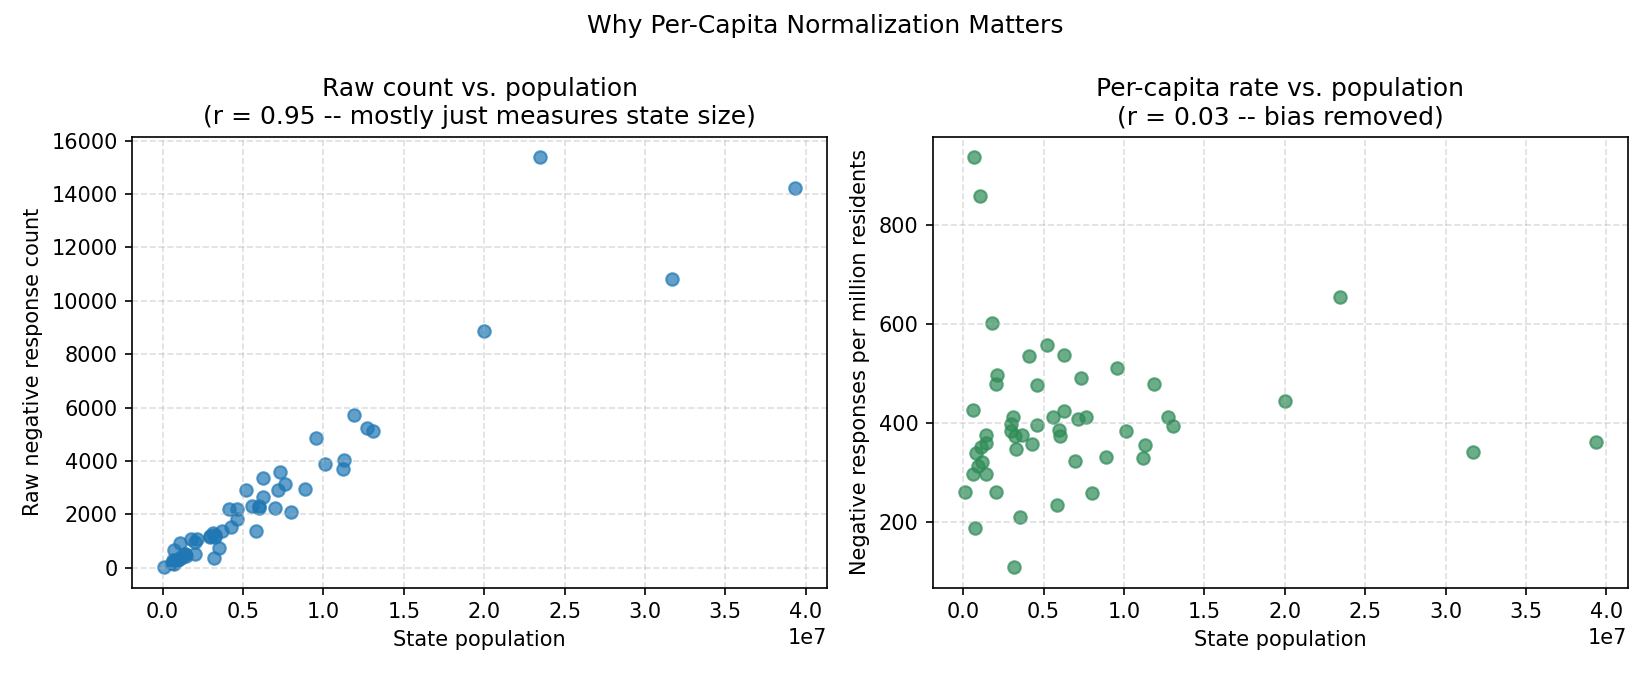
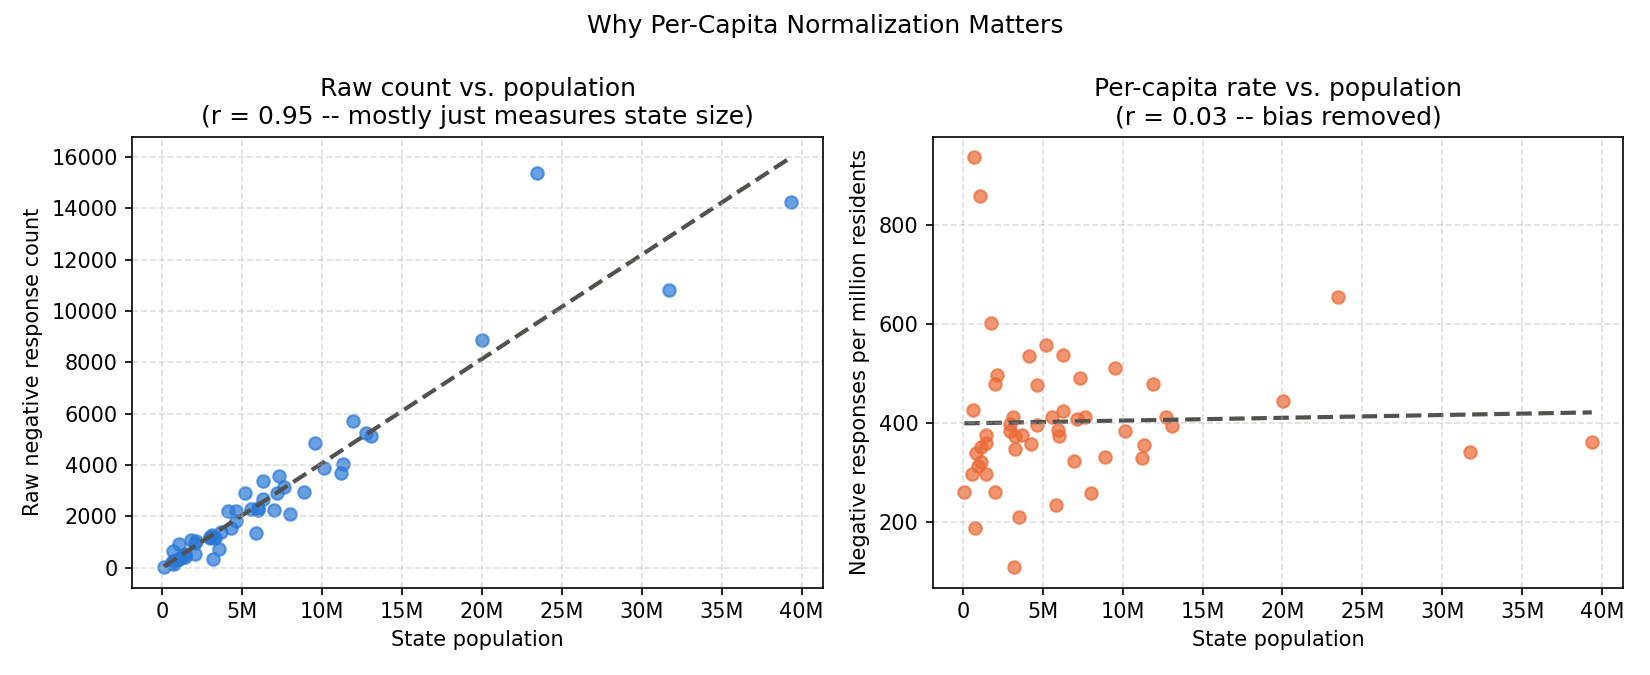
Drop disconnected NLP component, fix chart accessibility and clarity
- Remove nlp_sentiment_analysis.py and exampledataset2.csv: the classifier
  ran on a small synthetic dataset unrelated to the real HCAHPS data (which
  has no free-text field), and only added confusion about what the project
  actually demonstrates. Retitled the project and README to drop "NLP"
  since the remaining pipeline does categorical dictionary-based labeling,
  not natural language processing.
- Drop scikit-learn/numpy from requirements.txt now that nothing imports them
- Replace the diverging red/yellow/green colormap on both ranked bar charts
  with a sequential blue scale: the data is a straight ranking with no
  meaningful midpoint, so a diverging map was both semantically wrong and
  unreadable for red-green color blindness
- Add linear trend lines to both scatter plots so the stated correlations
  are visible in the chart, not just asserted in the title
- Format population axis ticks as "5M/10M" instead of scientific notation

diff --git a/hcahps_visualization.py b/hcahps_visualization.py
@@ -6,10 +6,29 @@ to the visuals/ folder. Run hcahps_sentiment_analysis.py first to (re)generate t
 import os
 
 import matplotlib.pyplot as plt
+import numpy as np
 import pandas as pd
+from matplotlib.colors import LinearSegmentedColormap
+from matplotlib.ticker import FuncFormatter
 
 OUTPUT_DIR = 'visuals'
 os.makedirs(OUTPUT_DIR, exist_ok=True)
+
+# Sequential, colorblind-safe blue ramp (light -> dark = low -> high magnitude).
+# A single-hue sequential ramp is the correct encoding for ranked/ordered data
+# like these negative-rate rankings; a red/green diverging map implies a
+# meaningful "good vs. bad" midpoint that isn't there, and red/green is the
+# one pairing that collapses for the most common form of color blindness.
+SEQUENTIAL_BLUE = LinearSegmentedColormap.from_list(
+    'sequential_blue', ['#cde2fb', '#6da7ec', '#2a78d6', '#104281']
+)
+
+# Validated categorical hues, used in fixed order across the report so the same
+# color always means the same thing (never reused for "just another series").
+BLUE = '#2a78d6'
+ORANGE = '#eb6834'
+AQUA = '#1baf7a'
+TREND_LINE = '#52514e'  # muted ink, not a data color -- reads as annotation, not a series
 
 # Human-readable labels for each HCAHPS measure_group code
 MEASURE_GROUP_LABELS = {
@@ -34,14 +53,25 @@ MEASURE_GROUP_LABELS = {
 }
 
 
+def _millions_formatter(value, _pos):
+    return f'{value / 1_000_000:.0f}M' if value else '0'
+
+
+def _add_trend_line(ax, x, y):
+    """Overlay a linear fit so the correlation stated in the title is visible, not just asserted."""
+    coeffs = np.polyfit(x, y, 1)
+    x_line = np.linspace(x.min(), x.max(), 100)
+    ax.plot(x_line, np.polyval(coeffs, x_line), color=TREND_LINE, linewidth=2, linestyle='--', zorder=1)
+
+
 def plot_state_negative_rate(summary):
     data = summary.sort_values('recommend_negative_rate_pct', ascending=True)
     fig_height = max(6, 0.22 * len(data))
     fig, ax = plt.subplots(figsize=(9, fig_height))
 
-    colors = plt.cm.RdYlGn_r((data['recommend_negative_rate_pct'] - data['recommend_negative_rate_pct'].min())
-                              / (data['recommend_negative_rate_pct'].max() - data['recommend_negative_rate_pct'].min()))
-    ax.barh(data['State'], data['recommend_negative_rate_pct'], color=colors)
+    rate = data['recommend_negative_rate_pct']
+    colors = SEQUENTIAL_BLUE((rate - rate.min()) / (rate.max() - rate.min()))
+    ax.barh(data['State'], rate, color=colors)
     ax.set_xlabel('% of patients who would NOT recommend the hospital')
     ax.set_title('"Would Not Recommend" Rate by State/Territory\n(single comparable HCAHPS measure, no cross-question blending)')
     ax.grid(axis='x', linestyle='--', alpha=0.4)
@@ -61,9 +91,9 @@ def plot_national_rate_by_measure(by_measure):
     national = national.sort_values('negative_rate_pct', ascending=True)
 
     fig, ax = plt.subplots(figsize=(9, 7))
-    colors = plt.cm.RdYlGn_r((national['negative_rate_pct'] - national['negative_rate_pct'].min())
-                              / (national['negative_rate_pct'].max() - national['negative_rate_pct'].min()))
-    ax.barh(national['label'], national['negative_rate_pct'], color=colors)
+    rate = national['negative_rate_pct']
+    colors = SEQUENTIAL_BLUE((rate - rate.min()) / (rate.max() - rate.min()))
+    ax.barh(national['label'], rate, color=colors)
     ax.set_xlabel('National negative-answer rate (%)')
     ax.set_title('National Negative Rate by HCAHPS Question\n(each question aggregated separately -- not blended together)')
     ax.grid(axis='x', linestyle='--', alpha=0.4)
@@ -75,19 +105,26 @@ def plot_national_rate_by_measure(by_measure):
 def plot_population_bias_check(summary):
     fig, axes = plt.subplots(1, 2, figsize=(11, 4.5))
 
-    raw_corr = summary['state_population'].corr(summary['recommend_negative_estimated_responses'])
-    axes[0].scatter(summary['state_population'], summary['recommend_negative_estimated_responses'], alpha=0.7)
+    x = summary['state_population']
+    raw_y = summary['recommend_negative_estimated_responses']
+    raw_corr = x.corr(raw_y)
+    axes[0].scatter(x, raw_y, alpha=0.7, color=BLUE)
+    _add_trend_line(axes[0], x, raw_y)
     axes[0].set_xlabel('State population')
     axes[0].set_ylabel('Raw negative response count')
     axes[0].set_title(f'Raw count vs. population\n(r = {raw_corr:.2f} -- mostly just measures state size)')
     axes[0].grid(linestyle='--', alpha=0.4)
+    axes[0].xaxis.set_major_formatter(FuncFormatter(_millions_formatter))
 
-    per_capita_corr = summary['state_population'].corr(summary['negative_per_million'])
-    axes[1].scatter(summary['state_population'], summary['negative_per_million'], alpha=0.7, color='seagreen')
+    per_capita_y = summary['negative_per_million']
+    per_capita_corr = x.corr(per_capita_y)
+    axes[1].scatter(x, per_capita_y, alpha=0.7, color=ORANGE)
+    _add_trend_line(axes[1], x, per_capita_y)
     axes[1].set_xlabel('State population')
     axes[1].set_ylabel('Negative responses per million residents')
     axes[1].set_title(f'Per-capita rate vs. population\n(r = {per_capita_corr:.2f} -- bias removed)')
     axes[1].grid(linestyle='--', alpha=0.4)
+    axes[1].xaxis.set_major_formatter(FuncFormatter(_millions_formatter))
 
     fig.suptitle('Why Per-Capita Normalization Matters')
     fig.tight_layout()
@@ -97,10 +134,13 @@ def plot_population_bias_check(summary):
 
 def plot_validation_against_cms_star_rating(summary):
     valid = summary.dropna(subset=['avg_cms_summary_star_rating'])
-    corr = valid['recommend_negative_rate_pct'].corr(valid['avg_cms_summary_star_rating'])
+    x = valid['recommend_negative_rate_pct']
+    y = valid['avg_cms_summary_star_rating']
+    corr = x.corr(y)
 
     fig, ax = plt.subplots(figsize=(6.5, 5.5))
-    ax.scatter(valid['recommend_negative_rate_pct'], valid['avg_cms_summary_star_rating'], alpha=0.75, color='darkorange')
+    ax.scatter(x, y, alpha=0.75, color=AQUA)
+    _add_trend_line(ax, x, y)
     ax.set_xlabel('"Would not recommend" rate (%)')
     ax.set_ylabel("CMS official Summary Star Rating (avg. by state)")
     ax.set_title(f'Validation vs. CMS\'s Own Official Rating\n(r = {corr:.2f} -- strongly negative, as expected)')

diff --git a/README.md b/README.md
@@ -1,16 +1,15 @@
-# HCAHPS Hospital Patient Experience: Sentiment Analysis & NLP Classification
+# HCAHPS Hospital Patient Experience: Sentiment Analysis
 
-A data engineering and NLP project that turns the CMS HCAHPS national patient-experience survey into labeled sentiment data, state-level insights, and a supervised text-classification pipeline.
+A data engineering project that turns the CMS HCAHPS national patient-experience survey into labeled sentiment data and state-level insights, with statistical validation against CMS's own official ratings.
 
 ## Overview
 
 HCAHPS is the standardized U.S. survey CMS uses to capture patients' perspectives on hospital care: communication with doctors and nurses, cleanliness, quietness, discharge information, medication communication, and overall hospital ratings. The raw source data doesn't report this as a simple positive or negative label. It reports categorical answer descriptions (e.g., *"Nurses 'always' communicated well"*) alongside percentages, star ratings, and survey counts.
 
-This project turns that raw categorical data into something analyzable, and answers three questions:
+This project turns that raw categorical data into something analyzable, and answers two questions:
 
 1. **What sentiment does each survey answer category represent?** (positive / neutral / negative)
 2. **Where do patients report the most negative experiences,** in absolute terms, as a rate, and normalized per capita?
-3. **Can a supervised NLP model classify short patient-experience text** as positive or negative, as a decoupled proof-of-concept for a future free-text extension of this pipeline?
 
 ## Technical Approach
 
@@ -18,13 +17,10 @@ This project turns that raw categorical data into something analyzable, and answ
 HCAHPS answers are pre-categorized, not free text, so sentiment isn't inferred by a model here. It's derived from a manual mapping dictionary that classifies all ~70 unique HCAHPS answer descriptions into positive, negative, or neutral (aggregate metrics like linear mean scores and star ratings, which aren't sentiment-bearing on their own). Labels are encoded numerically (positive = 1, neutral = 0, negative = -1) for downstream aggregation.
 
 **2. Feature Engineering & Estimation**
-Cleans and casts numeric fields (answer percentages, completed survey counts, star ratings, response rates), then derives `estimated_responses = answer_percent * completed_surveys / 100` to approximate the number of patients behind each reported percentage. One-hot encodes answer descriptions and correlates them against survey metrics to validate which categories move together with rating and response-rate signals.
+Cleans and casts numeric fields (answer percentages, completed survey counts, star ratings, response rates), then derives `estimated_responses = answer_percent * completed_surveys / 100` to approximate the number of patients behind each reported percentage.
 
 **3. Geographic Rollup**
 Each HCAHPS survey batch answers ~18 distinct questions (nurse communication, doctor communication, cleanliness, quietness, discharge info, recommend-hospital, etc.), all sharing the same respondent base. Estimated responses are first aggregated **per question** (grouped by the underlying `HCAHPS Measure ID`, e.g. `H_COMP_1_A_P`/`H_COMP_1_SN_P`/`H_COMP_1_U_P` all roll up to `H_COMP_1`) so unrelated questions are never summed together, which would otherwise inflate counts by ~18x and blend dissimilar sentiment dimensions into one meaningless number. The full per-question, per-state breakdown is saved for granular analysis, and a single well-defined, mutually-exclusive question — "would recommend the hospital" (`H_RECMND`) — is used as the headline, apples-to-apples state comparison. That headline metric is then joined against a state/territory population reference table (all 50 states, DC, and PR/VI/GU/AS/MP) to normalize per million residents rather than ranking by raw volume, which would just reflect population size. The pipeline explicitly checks the correlation between negative response volume and state population to surface that bias, and flags any states with missing population data for transparency.
-
-**4. Supervised NLP Classification (Decoupled Proof-of-Concept)**
-HCAHPS itself has no free-text field, so this piece does not run on HCAHPS data. It's a separate, minimal end-to-end classification pipeline trained on `exampledataset2.csv`, a small set of 50 hand-written, hospital-review-style sentences (not real patient records) built to demonstrate how free-text patient feedback could be classified if it existed in the source data. It uses CountVectorizer (Bag-of-Words) for vectorization and an SVM classifier from scikit-learn, evaluated with stratified 5-fold cross-validation (accuracy, precision, recall, F1 reported as mean ± std across folds) rather than a single train/test split, since the labeled dataset is small. Intentionally simple and swappable, built as a clear extension point for TF-IDF, word embeddings, or transformer-based models, and for real patient-comment data if it becomes available.
 
 ## Key Findings (Visualized)
 
@@ -59,8 +55,6 @@ This project measures **patient-reported experience** during a hospital stay (co
 | `hcahps_utils.py` | Shared, unit-testable logic (measure-group derivation, response estimation, state aggregation, population join) used by the pipeline |
 | `test_hcahps_utils.py` | Automated tests for `hcahps_utils.py` (run with `python -m unittest test_hcahps_utils.py -v`) |
 | `hcahps_visualization.py` | Generates the charts in `visuals/` from the state-level CSV outputs |
-| `nlp_sentiment_analysis.py` | Standalone, decoupled proof-of-concept text classifier (Bag-of-Words + SVM), not run on HCAHPS data |
-| `exampledataset2.csv` | 50 hand-written, hospital-review-style example sentences used to train/evaluate the standalone classifier (synthetic, not real patient records) |
 | `HCAHPS-Hospital-sentiment.csv` | Output: full dataset enriched with sentiment labels, numeric encodings, and estimated response counts |
 | `HCAHPS-Hospital-state-negative-by-measure.csv` | Output: negative-rate breakdown by state **and** individual HCAHPS question (no cross-question blending) |
 | `HCAHPS-Hospital-state-negative-summary.csv` | Output: headline state-level rollup based on the "recommend hospital" question only, with per-million-population normalization and a validation column against CMS's own official Summary Star Rating |
@@ -72,11 +66,10 @@ This project measures **patient-reported experience** during a hospital stay (co
 - **Domain-driven labeling:** converting a categorical survey taxonomy into ML-ready sentiment labels without manual text annotation
 - **End-to-end pipeline thinking:** raw ingestion, cleaning, feature engineering, statistical aggregation, geographic normalization, and exportable analytical outputs
 - **Statistical rigor:** normalizing by population instead of raw counts, and explicitly testing for a known analytical bias before trusting the results
-- **Applied NLP:** a working supervised text classifier built as a decoupled, extensible proof-of-concept, not a black box
 
 ## Tech Stack
 
-Python, pandas, scikit-learn (CountVectorizer, SVC, StratifiedKFold, accuracy_score, precision_score, recall_score, f1_score), matplotlib
+Python, pandas, matplotlib
 
 ## Setup & Reproducibility
 
@@ -90,7 +83,6 @@ pip install -r requirements.txt
 2. `python hcahps_sentiment_analysis.py` — runs the core pipeline and writes the CSV outputs.
 3. `python hcahps_visualization.py` — generates the charts in `visuals/` from those outputs.
 4. `python -m unittest test_hcahps_utils.py -v` — runs the unit test suite (does not require the raw CSV).
-5. `python nlp_sentiment_analysis.py` — runs the standalone NLP proof-of-concept (uses `exampledataset2.csv`, included in the repo).
 
 ## Data Source
 
@@ -100,7 +92,6 @@ Source data is the public CMS (Centers for Medicare & Medicaid Services) "Patien
 
 - **Suppressed data:** ~41% of raw `HCAHPS Answer Percent` values are CMS-suppressed (`"Not Applicable"` or `"Not Available"`, typically small-sample facilities) and are excluded from aggregates via coercion to `NaN`. Roughly 87k rows also carry a CMS data-quality footnote that isn't currently surfaced in the outputs.
 - **Population figures are sourced and cited:** the 50 states, DC, and Puerto Rico use U.S. Census Bureau Vintage 2025 postcensal estimates (as of July 1, 2025, NST-EST2025-POP). Guam, the U.S. Virgin Islands, American Samoa, and the Northern Mariana Islands aren't part of that annual program, so they use the 2020 Decennial Census island-area counts instead — both sources are cited directly above `state_population_map` in `hcahps_sentiment_analysis.py`.
-- **NLP classifier accuracy still carries wide uncertainty:** `exampledataset2.csv` has only 50 rows. Stratified 5-fold cross-validation now reports accuracy as 0.580 ± 0.117 (individual folds ranged 0.40–0.70), which is a far more honest picture than a single 80/20 split — but the dataset is still too small to treat any of these numbers as production-grade. Grow the labeled dataset before presenting a headline accuracy figure.
 - **Correlation between state population and negative response volume is expected to be high** (larger states simply have more hospitals and respondents); this is why the headline metric is normalized per million residents rather than presented as a raw count.
 
 ## Testing
@@ -115,7 +106,6 @@ python -m unittest test_hcahps_utils.py -v
 
 - Replace the manual sentiment dictionary with a validated lookup table or automated tests to catch silent mismatches as CMS updates category wording
 - Refresh the state population figures on a yearly cadence as new Census Bureau vintages are released
-- Upgrade the NLP classifier to TF-IDF plus logistic regression or transformer embeddings, trained on a larger labeled dataset to narrow the cross-validation confidence interval
 - Containerize the pipeline (Docker) and orchestrate scheduled CMS data refreshes with a workflow tool (Airflow or Prefect)
 
 ## License
